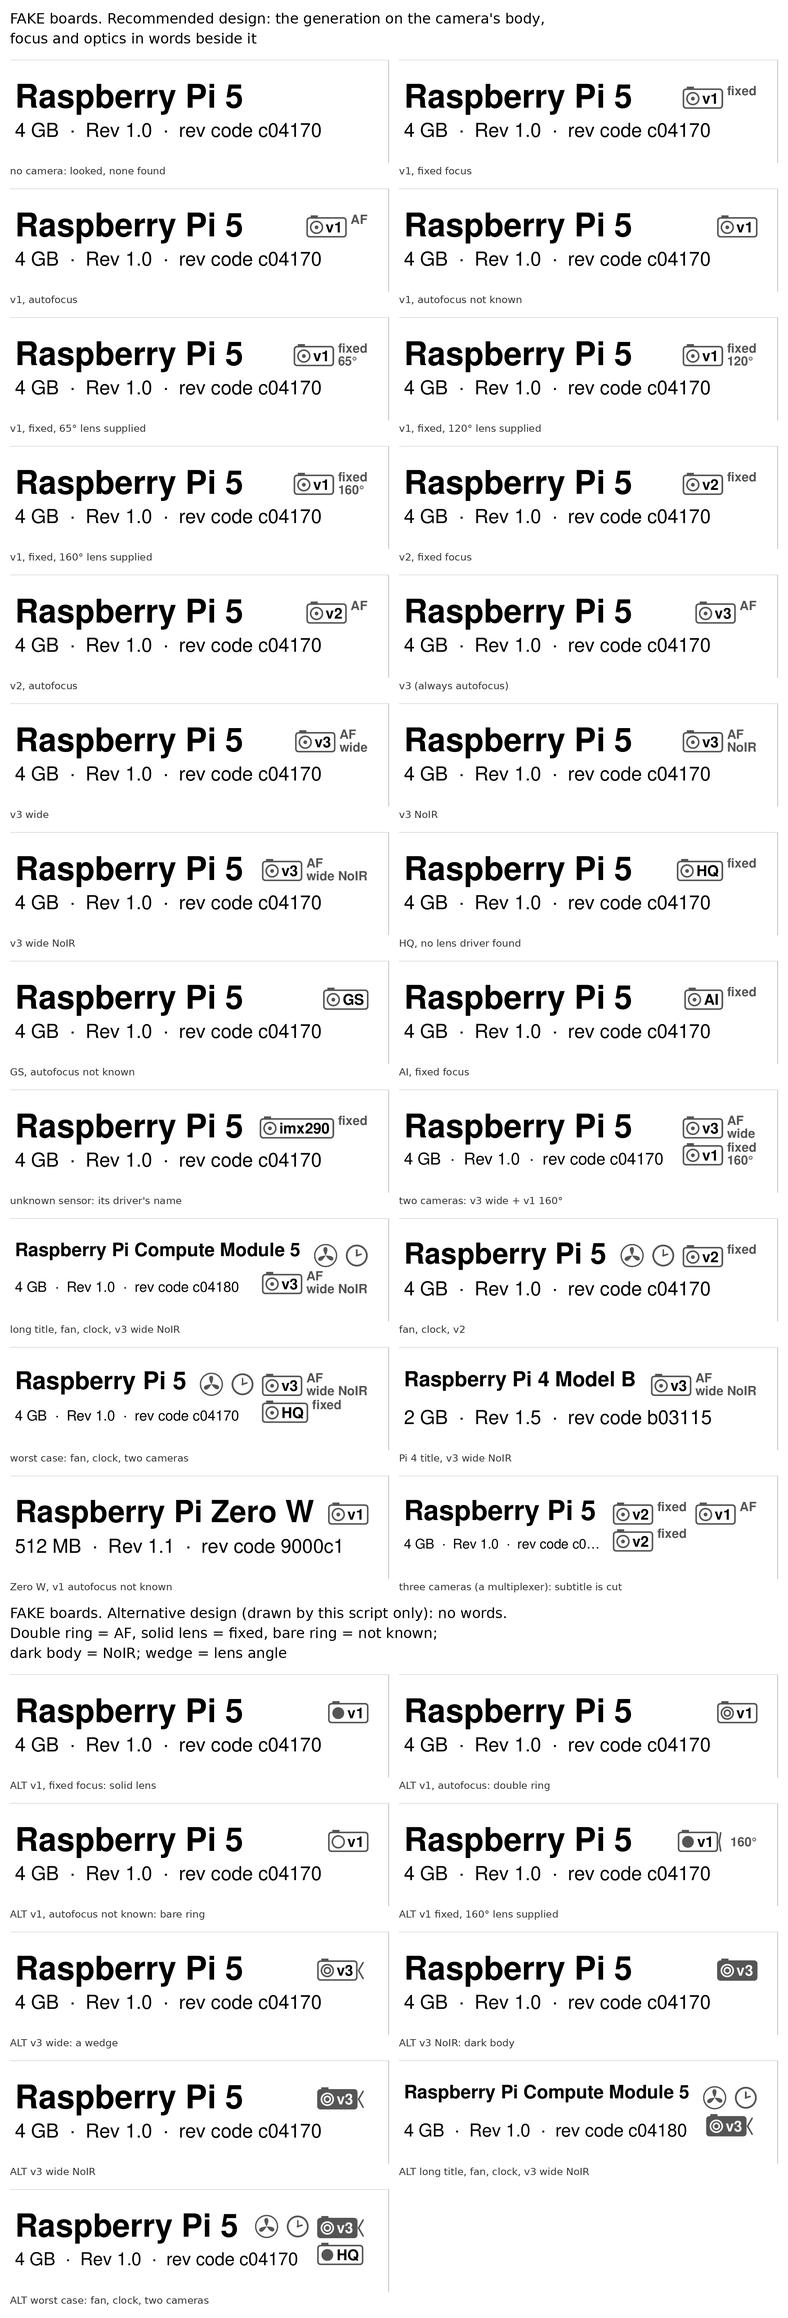
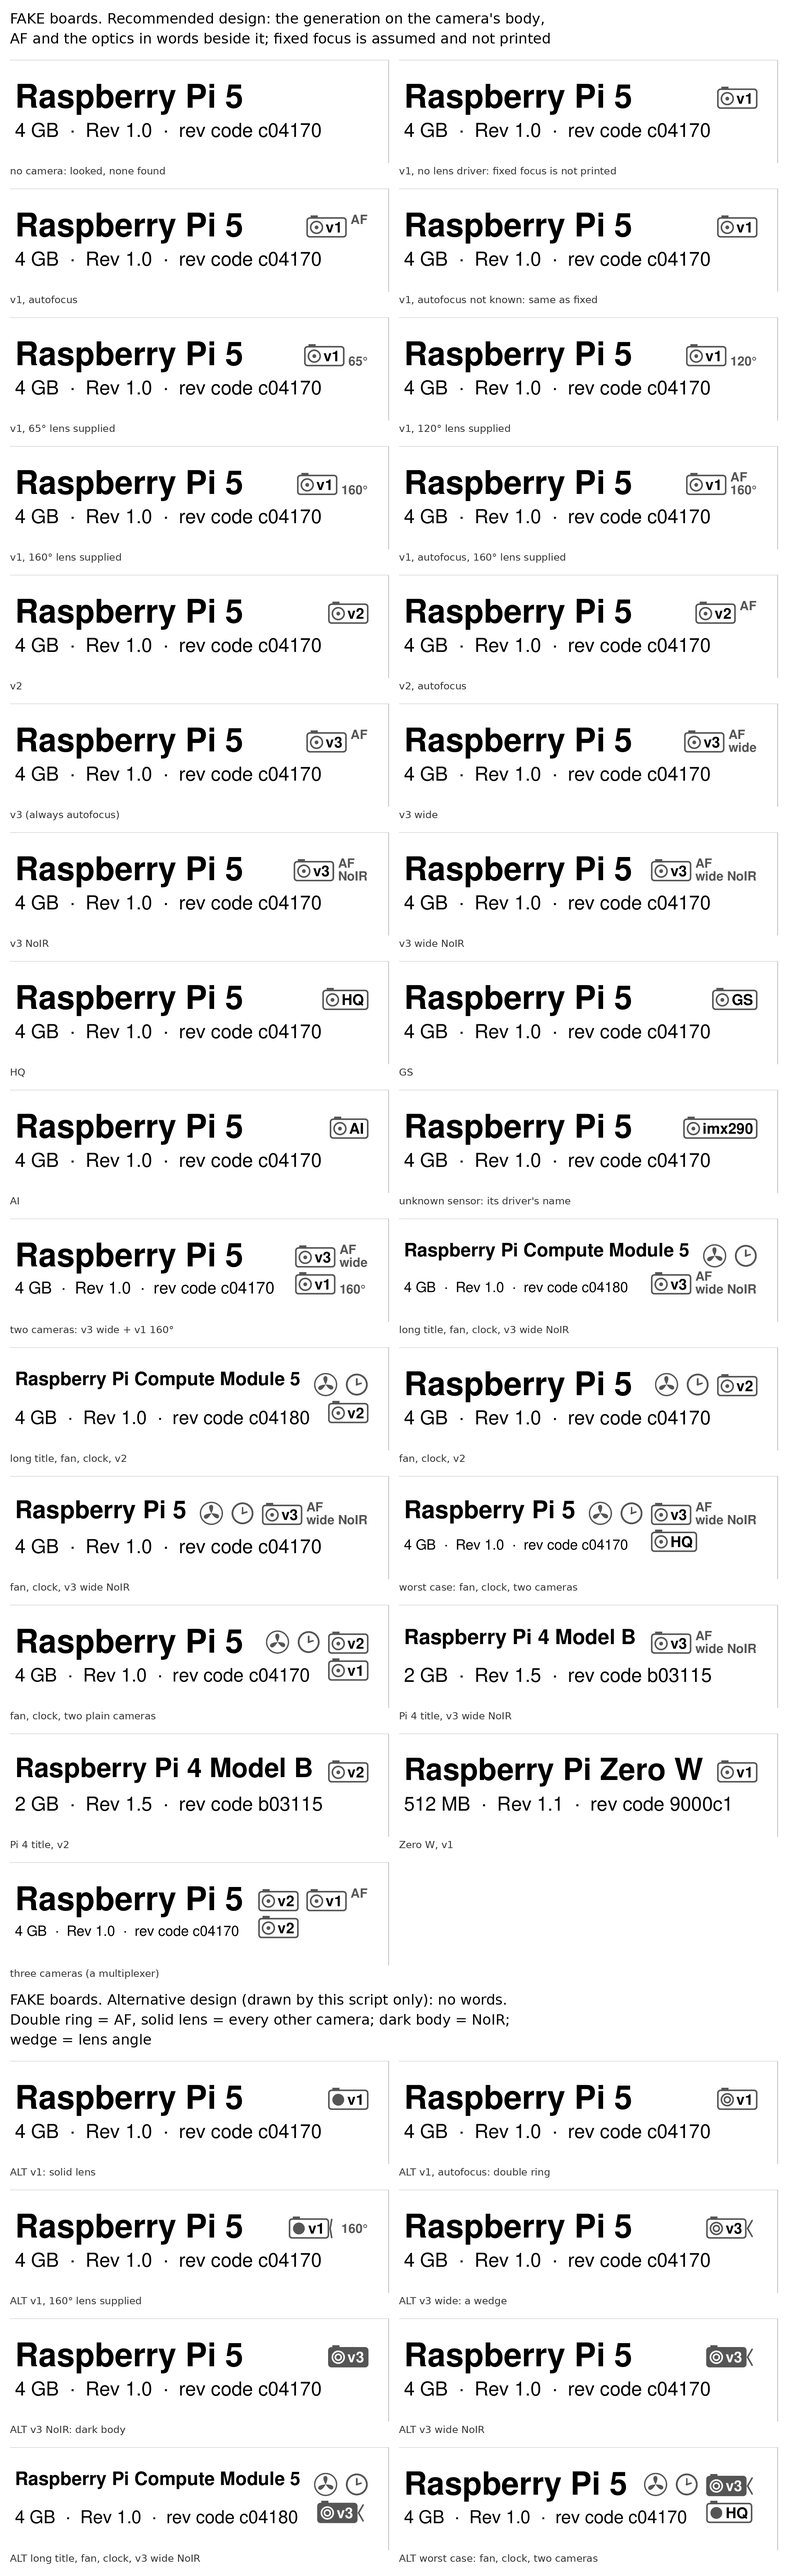
docs/examples: the camera sheet without "fixed"
Regenerated for the mark that prints only "AF". More of the common cases
are on it now that they are narrow (a plain camera beside a Pi 4 and a
Compute Module title, two plain cameras with fan and clock, autofocus with
a supplied lens angle): 29 labels, and 8 of the alternative.

The alternative design loses its third lens: a double ring is autofocus
and a solid lens is every other camera, with no separate glyph for
"not known".

Claude-Session: https://claude.ai/code/session_01SvEHPUfX5mnTmNxbGRFzyn

diff --git a/docs/examples/render_cameras.py b/docs/examples/render_cameras.py
@@ -51,40 +51,46 @@ V3_WIDE_NOIR = cam("imx708", True, "wide_noir")
 # (caption, board, fan, rtc cell, cameras)
 SAMPLES = [
     ("no camera: looked, none found", PI5, False, False, []),
-    ("v1, fixed focus", PI5, False, False, [cam("ov5647", False)]),
+    ("v1, no lens driver: fixed focus is not printed", PI5, False, False,
+     [cam("ov5647", False)]),
     ("v1, autofocus", PI5, False, False, [cam("ov5647", True)]),
-    ("v1, autofocus not known", PI5, False, False, [cam("ov5647")]),
-    ("v1, fixed, 65° lens supplied", PI5, False, False, [cam("ov5647", False, fov=65)]),
-    ("v1, fixed, 120° lens supplied", PI5, False, False, [cam("ov5647", False, fov=120)]),
-    ("v1, fixed, 160° lens supplied", PI5, False, False, [cam("ov5647", False, fov=160)]),
-    ("v2, fixed focus", PI5, False, False, [cam("imx219", False)]),
+    ("v1, autofocus not known: same as fixed", PI5, False, False, [cam("ov5647")]),
+    ("v1, 65° lens supplied", PI5, False, False, [cam("ov5647", False, fov=65)]),
+    ("v1, 120° lens supplied", PI5, False, False, [cam("ov5647", False, fov=120)]),
+    ("v1, 160° lens supplied", PI5, False, False, [cam("ov5647", False, fov=160)]),
+    ("v1, autofocus, 160° lens supplied", PI5, False, False, [cam("ov5647", True, fov=160)]),
+    ("v2", PI5, False, False, [cam("imx219", False)]),
     ("v2, autofocus", PI5, False, False, [cam("imx219", True)]),
     ("v3 (always autofocus)", PI5, False, False, [cam("imx708", True)]),
     ("v3 wide", PI5, False, False, [cam("imx708", True, "wide")]),
     ("v3 NoIR", PI5, False, False, [cam("imx708", True, "noir")]),
     ("v3 wide NoIR", PI5, False, False, [V3_WIDE_NOIR]),
-    ("HQ, no lens driver found", PI5, False, False, [cam("imx477", False)]),
-    ("GS, autofocus not known", PI5, False, False, [cam("imx296")]),
-    ("AI, fixed focus", PI5, False, False, [cam("imx500", False)]),
+    ("HQ", PI5, False, False, [cam("imx477", False)]),
+    ("GS", PI5, False, False, [cam("imx296")]),
+    ("AI", PI5, False, False, [cam("imx500", False)]),
     ("unknown sensor: its driver's name", PI5, False, False, [cam("imx290", False)]),
     ("two cameras: v3 wide + v1 160°", PI5, False, False,
      [cam("imx708", True, "wide"), cam("ov5647", False, fov=160)]),
     ("long title, fan, clock, v3 wide NoIR", CM5, True, True, [V3_WIDE_NOIR]),
+    ("long title, fan, clock, v2", CM5, True, True, [cam("imx219", False)]),
     ("fan, clock, v2", PI5, True, True, [cam("imx219", False)]),
+    ("fan, clock, v3 wide NoIR", PI5, True, True, [V3_WIDE_NOIR]),
     ("worst case: fan, clock, two cameras", PI5, True, True,
      [V3_WIDE_NOIR, cam("imx477", False)]),
+    ("fan, clock, two plain cameras", PI5, True, True,
+     [cam("imx219", False), cam("ov5647", False)]),
     ("Pi 4 title, v3 wide NoIR", PI4, None, None, [V3_WIDE_NOIR]),
-    ("Zero W, v1 autofocus not known", ZERO_W, None, None, [cam("ov5647")]),
-    ("three cameras (a multiplexer): subtitle is cut", PI5, False, False,
+    ("Pi 4 title, v2", PI4, None, None, [cam("imx219", False)]),
+    ("Zero W, v1", ZERO_W, None, None, [cam("ov5647")]),
+    ("three cameras (a multiplexer)", PI5, False, False,
      [cam("imx219", False), cam("imx219", False), cam("ov5647", True)]),
 ]
 
 # The alternative design, on the cases where it differs most.
 ALTERNATIVE = [
-    ("ALT v1, fixed focus: solid lens", PI5, False, False, [cam("ov5647", False)]),
+    ("ALT v1: solid lens", PI5, False, False, [cam("ov5647", False)]),
     ("ALT v1, autofocus: double ring", PI5, False, False, [cam("ov5647", True)]),
-    ("ALT v1, autofocus not known: bare ring", PI5, False, False, [cam("ov5647")]),
-    ("ALT v1 fixed, 160° lens supplied", PI5, False, False, [cam("ov5647", False, fov=160)]),
+    ("ALT v1, 160° lens supplied", PI5, False, False, [cam("ov5647", False, fov=160)]),
     ("ALT v3 wide: a wedge", PI5, False, False, [cam("imx708", True, "wide")]),
     ("ALT v3 NoIR: dark body", PI5, False, False, [cam("imx708", True, "noir")]),
     ("ALT v3 wide NoIR", PI5, False, False, [V3_WIDE_NOIR]),
@@ -135,10 +141,10 @@ def alt_width(lab, cam_record, size):
 
 def alt_mark(lab, cam_record, x, y, size):
     """The same camera outline with everything but the generation said by
-    its shape: a double lens ring for autofocus, a solid lens for fixed
-    focus, a bare ring where nobody could look; a dark body for NoIR; a
-    wedge at the lens's angle for a wide or measured lens, with the degrees
-    beside it only where a person supplied them."""
+    its shape: a double lens ring for autofocus and a solid lens for every
+    other camera, fixed focus being assumed; a dark body for NoIR; a wedge
+    at the lens's angle for a wide or measured lens, with the degrees beside
+    it only where a person supplied them."""
     c = lab.c
     gen = labels.camera_generation(cam_record.sensor)
     gen_size, body_w, word_size, _w = labels.camera_layout(lab, cam_record, size)
@@ -154,12 +160,11 @@ def alt_mark(lab, cam_record, x, y, size):
     cx, cy = px + pad + lens, py + body_h / 2
     c.setStrokeColor(ink)
     c.setFillColor(ink)
-    if cam_record.autofocus is False:
-        c.circle(cx, cy, lens, stroke=0, fill=1)
-    else:
+    if cam_record.autofocus:
         c.circle(cx, cy, lens, stroke=1, fill=0)
-        if cam_record.autofocus:
-            c.circle(cx, cy, lens * 0.5, stroke=1, fill=0)
+        c.circle(cx, cy, lens * 0.5, stroke=1, fill=0)
+    else:
+        c.circle(cx, cy, lens, stroke=0, fill=1)
     lab.text(x + pad + 2 * lens + pad, y + size - body_h / 2 - gen_size * 0.36, gen,
              SANS_BOLD, gen_size, color=white if noir else black)
     angle = alt_wedge(cam_record)
@@ -245,10 +250,10 @@ def compose(sections, cols, scale):
 
 def main() -> None:
     main_heading = ["FAKE boards. Recommended design: the generation on the camera's body,",
-                    "focus and optics in words beside it"]
+                    "AF and the optics in words beside it; fixed focus is assumed and not printed"]
     alt_heading = ["FAKE boards. Alternative design (drawn by this script only): no words.",
-                   "Double ring = AF, solid lens = fixed, bare ring = not known;",
-                   "dark body = NoIR; wedge = lens angle"]
+                   "Double ring = AF, solid lens = every other camera; dark body = NoIR;",
+                   "wedge = lens angle"]
     real = labels.mark_camera, labels.camera_width
     with tempfile.TemporaryDirectory(dir=HERE) as tmp:
         for name, dpi, band, cols, scale in (("camera-icons", SHEET_DPI, False, 3, 1),
